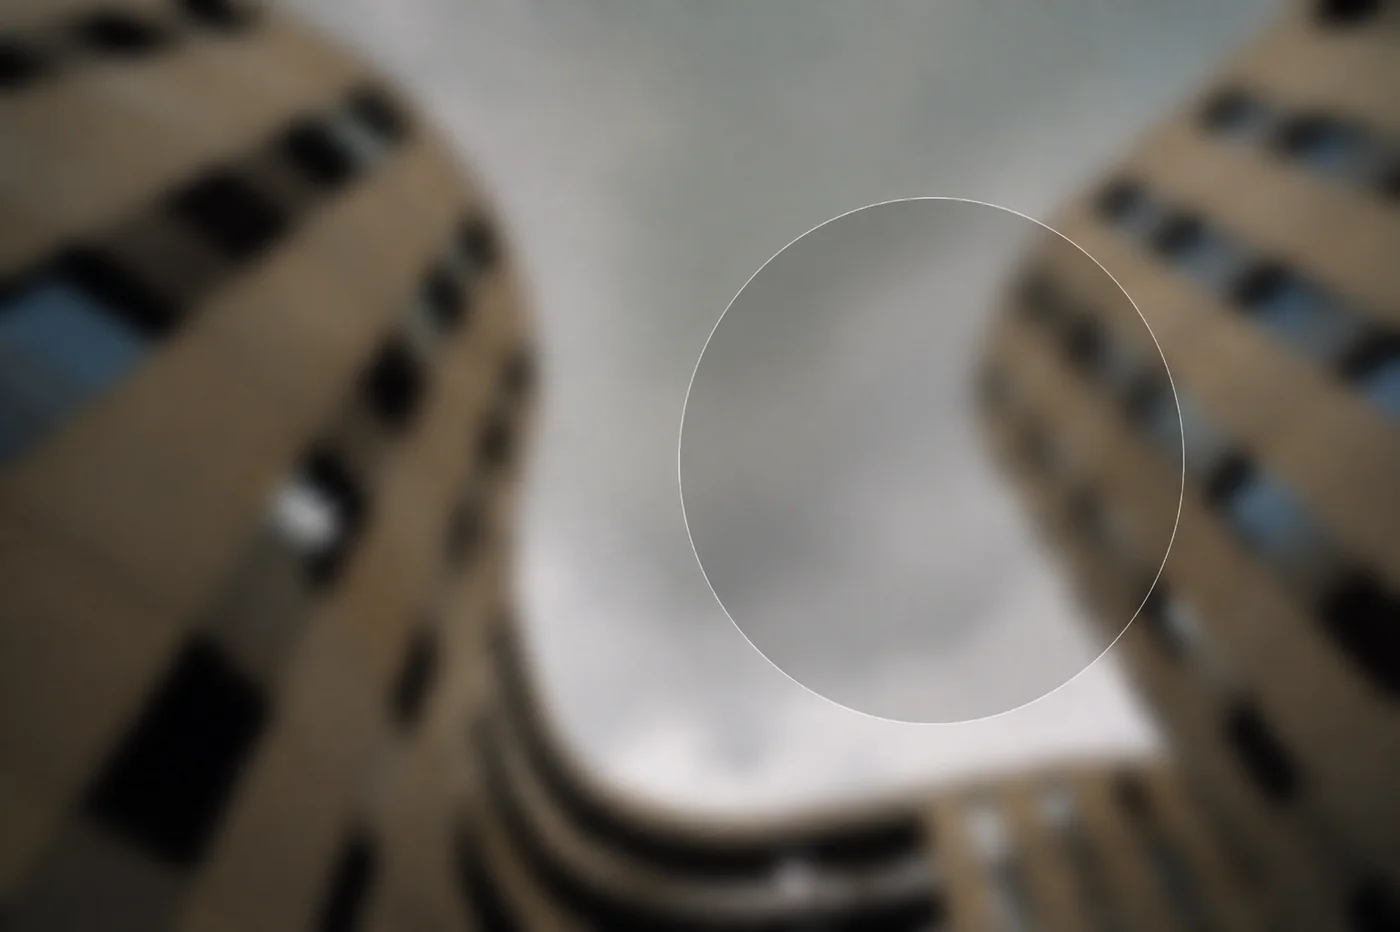
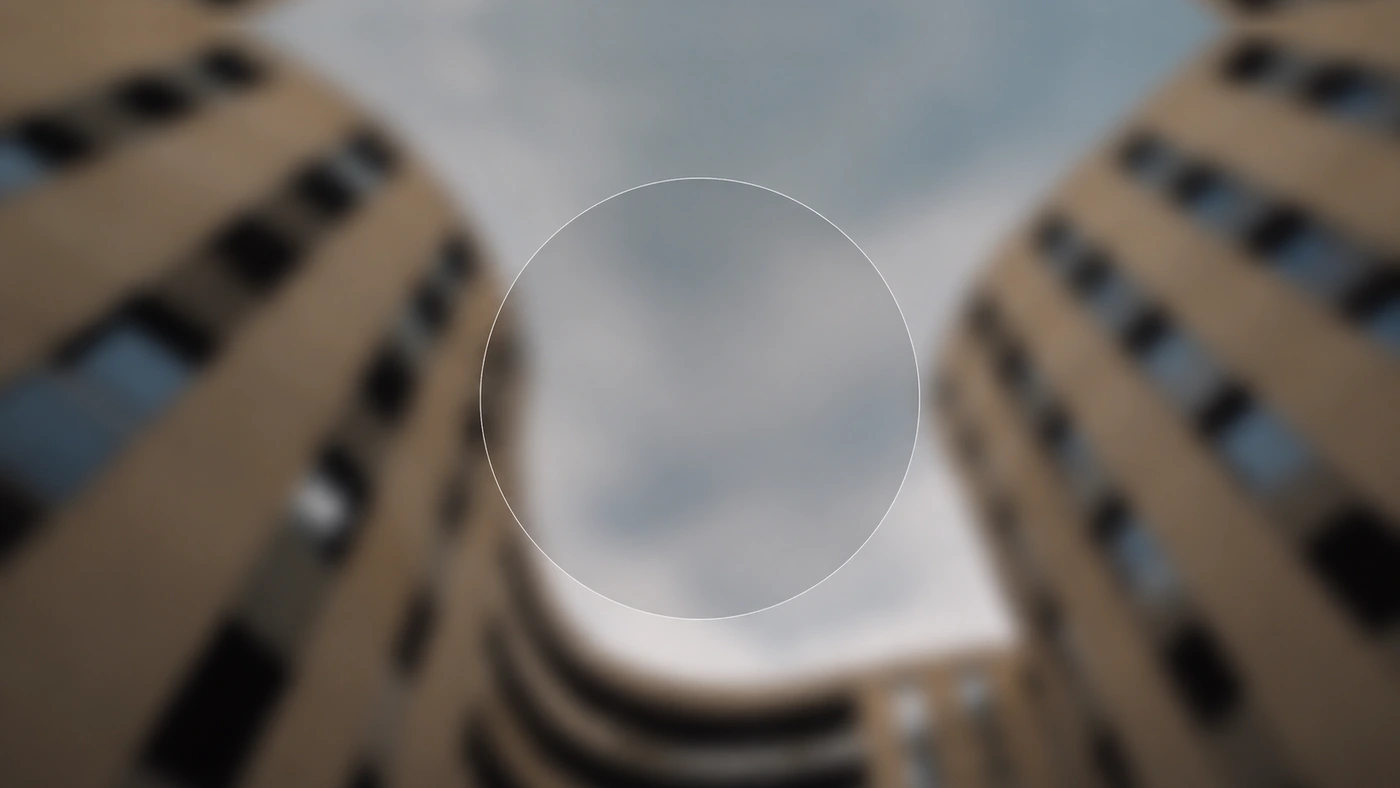
adjusted positioning of pictures

diff --git a/style.css b/style.css
@@ -800,7 +800,7 @@ linear-gradient(
 }
 
 .projects-grid .project-card:nth-child(2) .project-image img {
-    object-position: 80.2% center;
+    object-position: center center;
 }
 
 .project-card:hover .project-image img {
